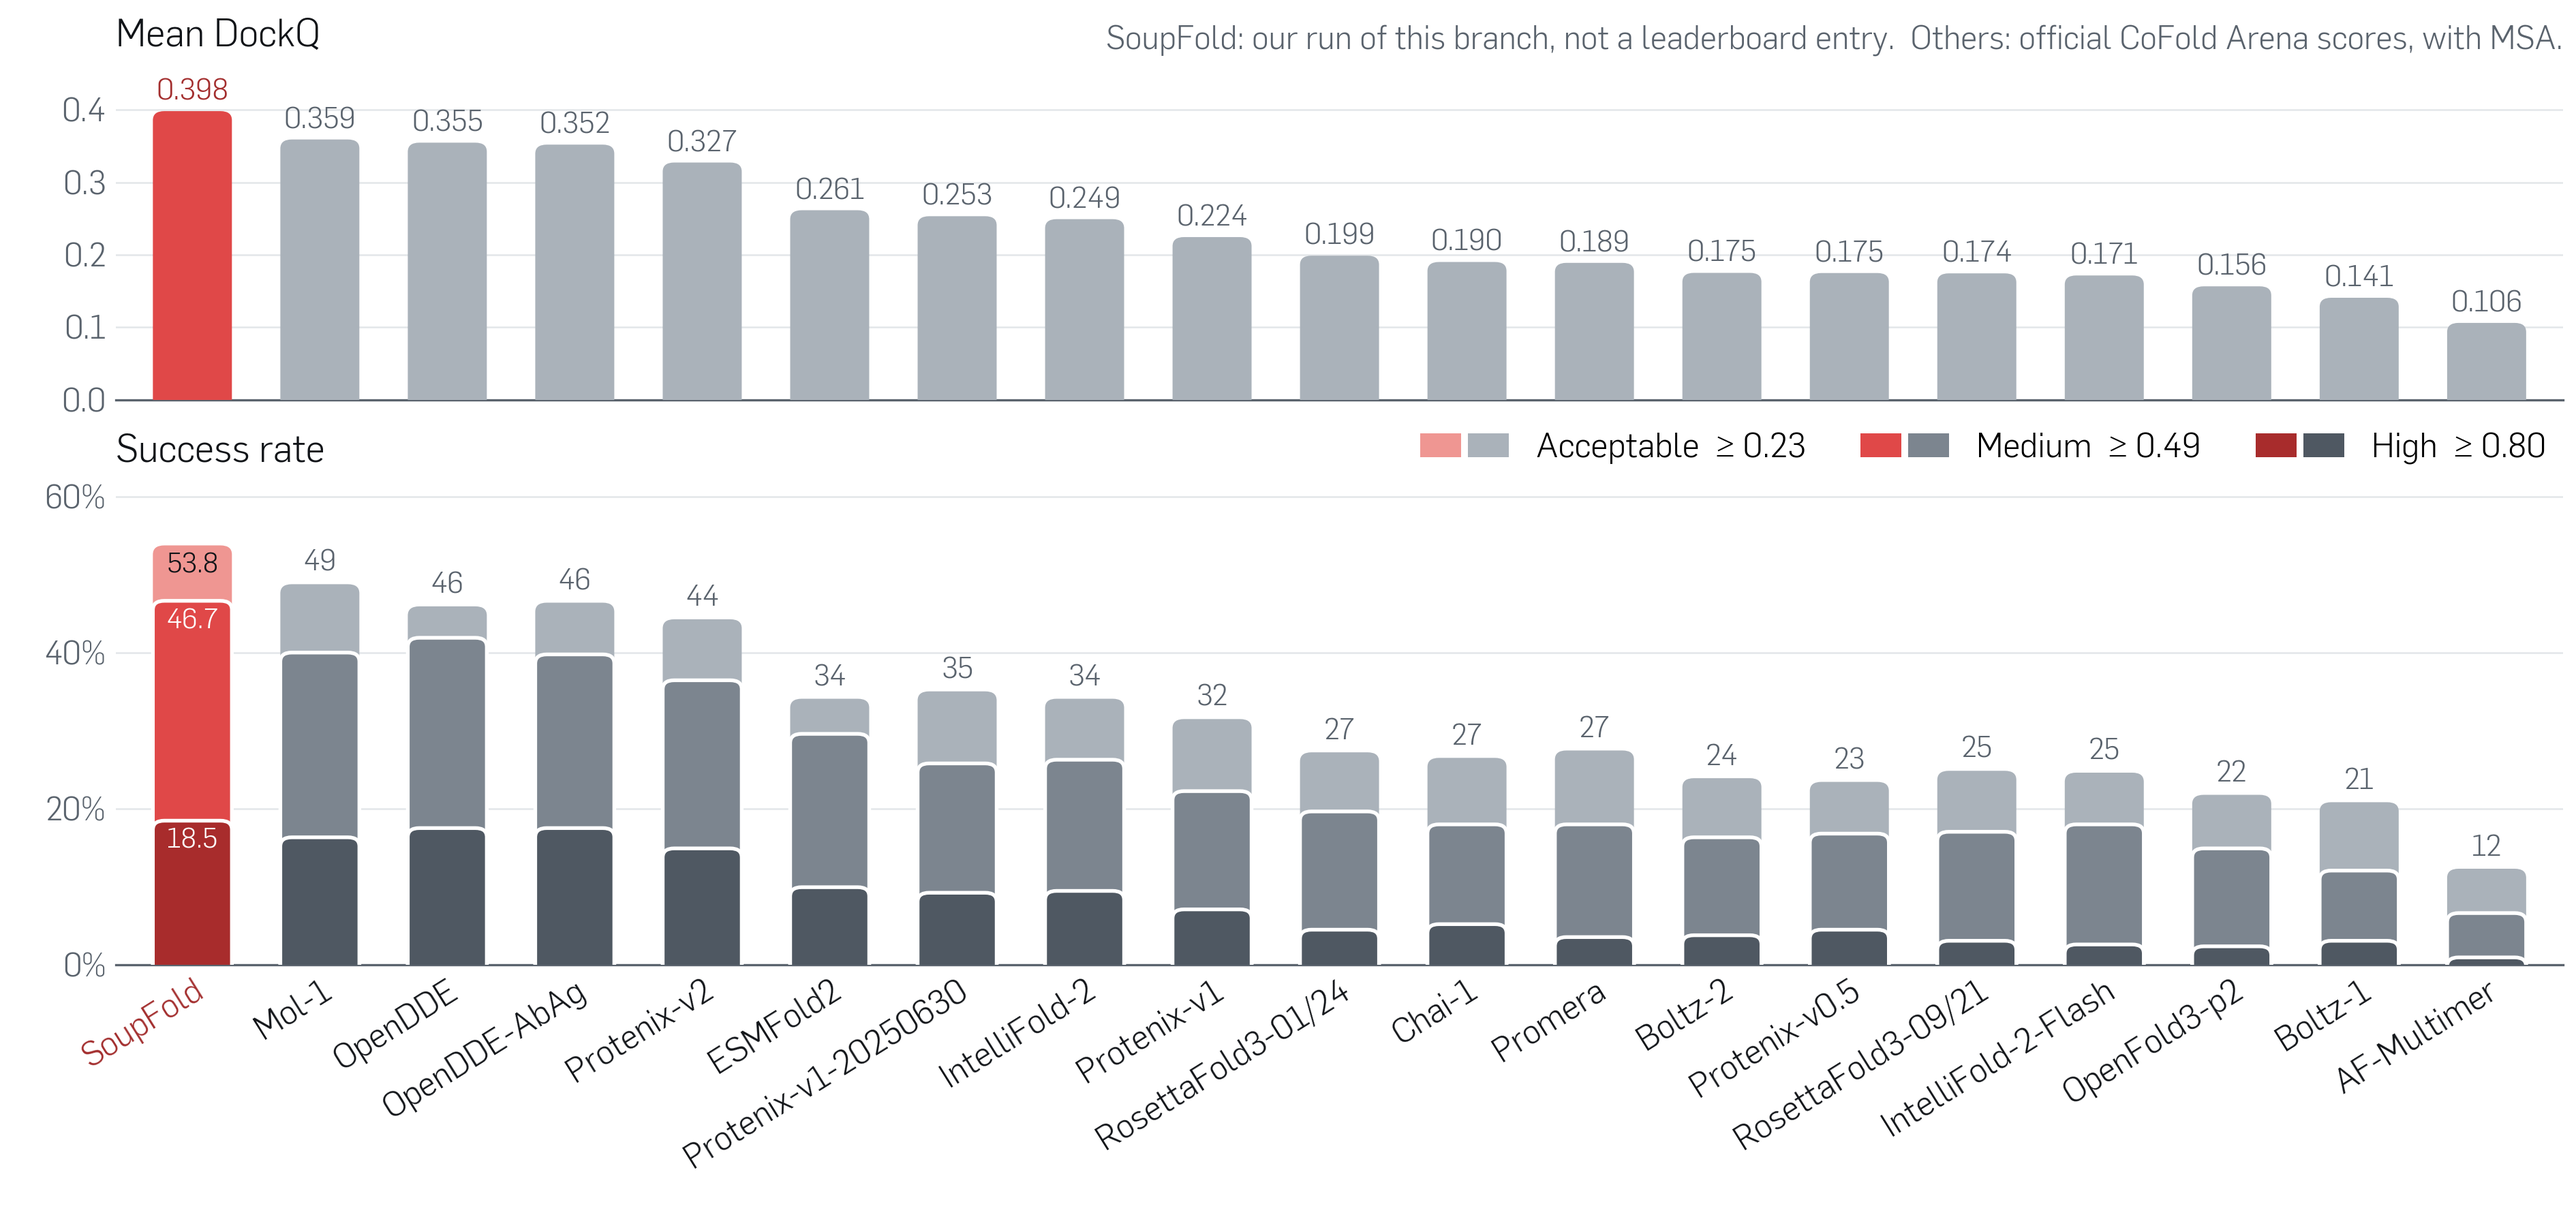
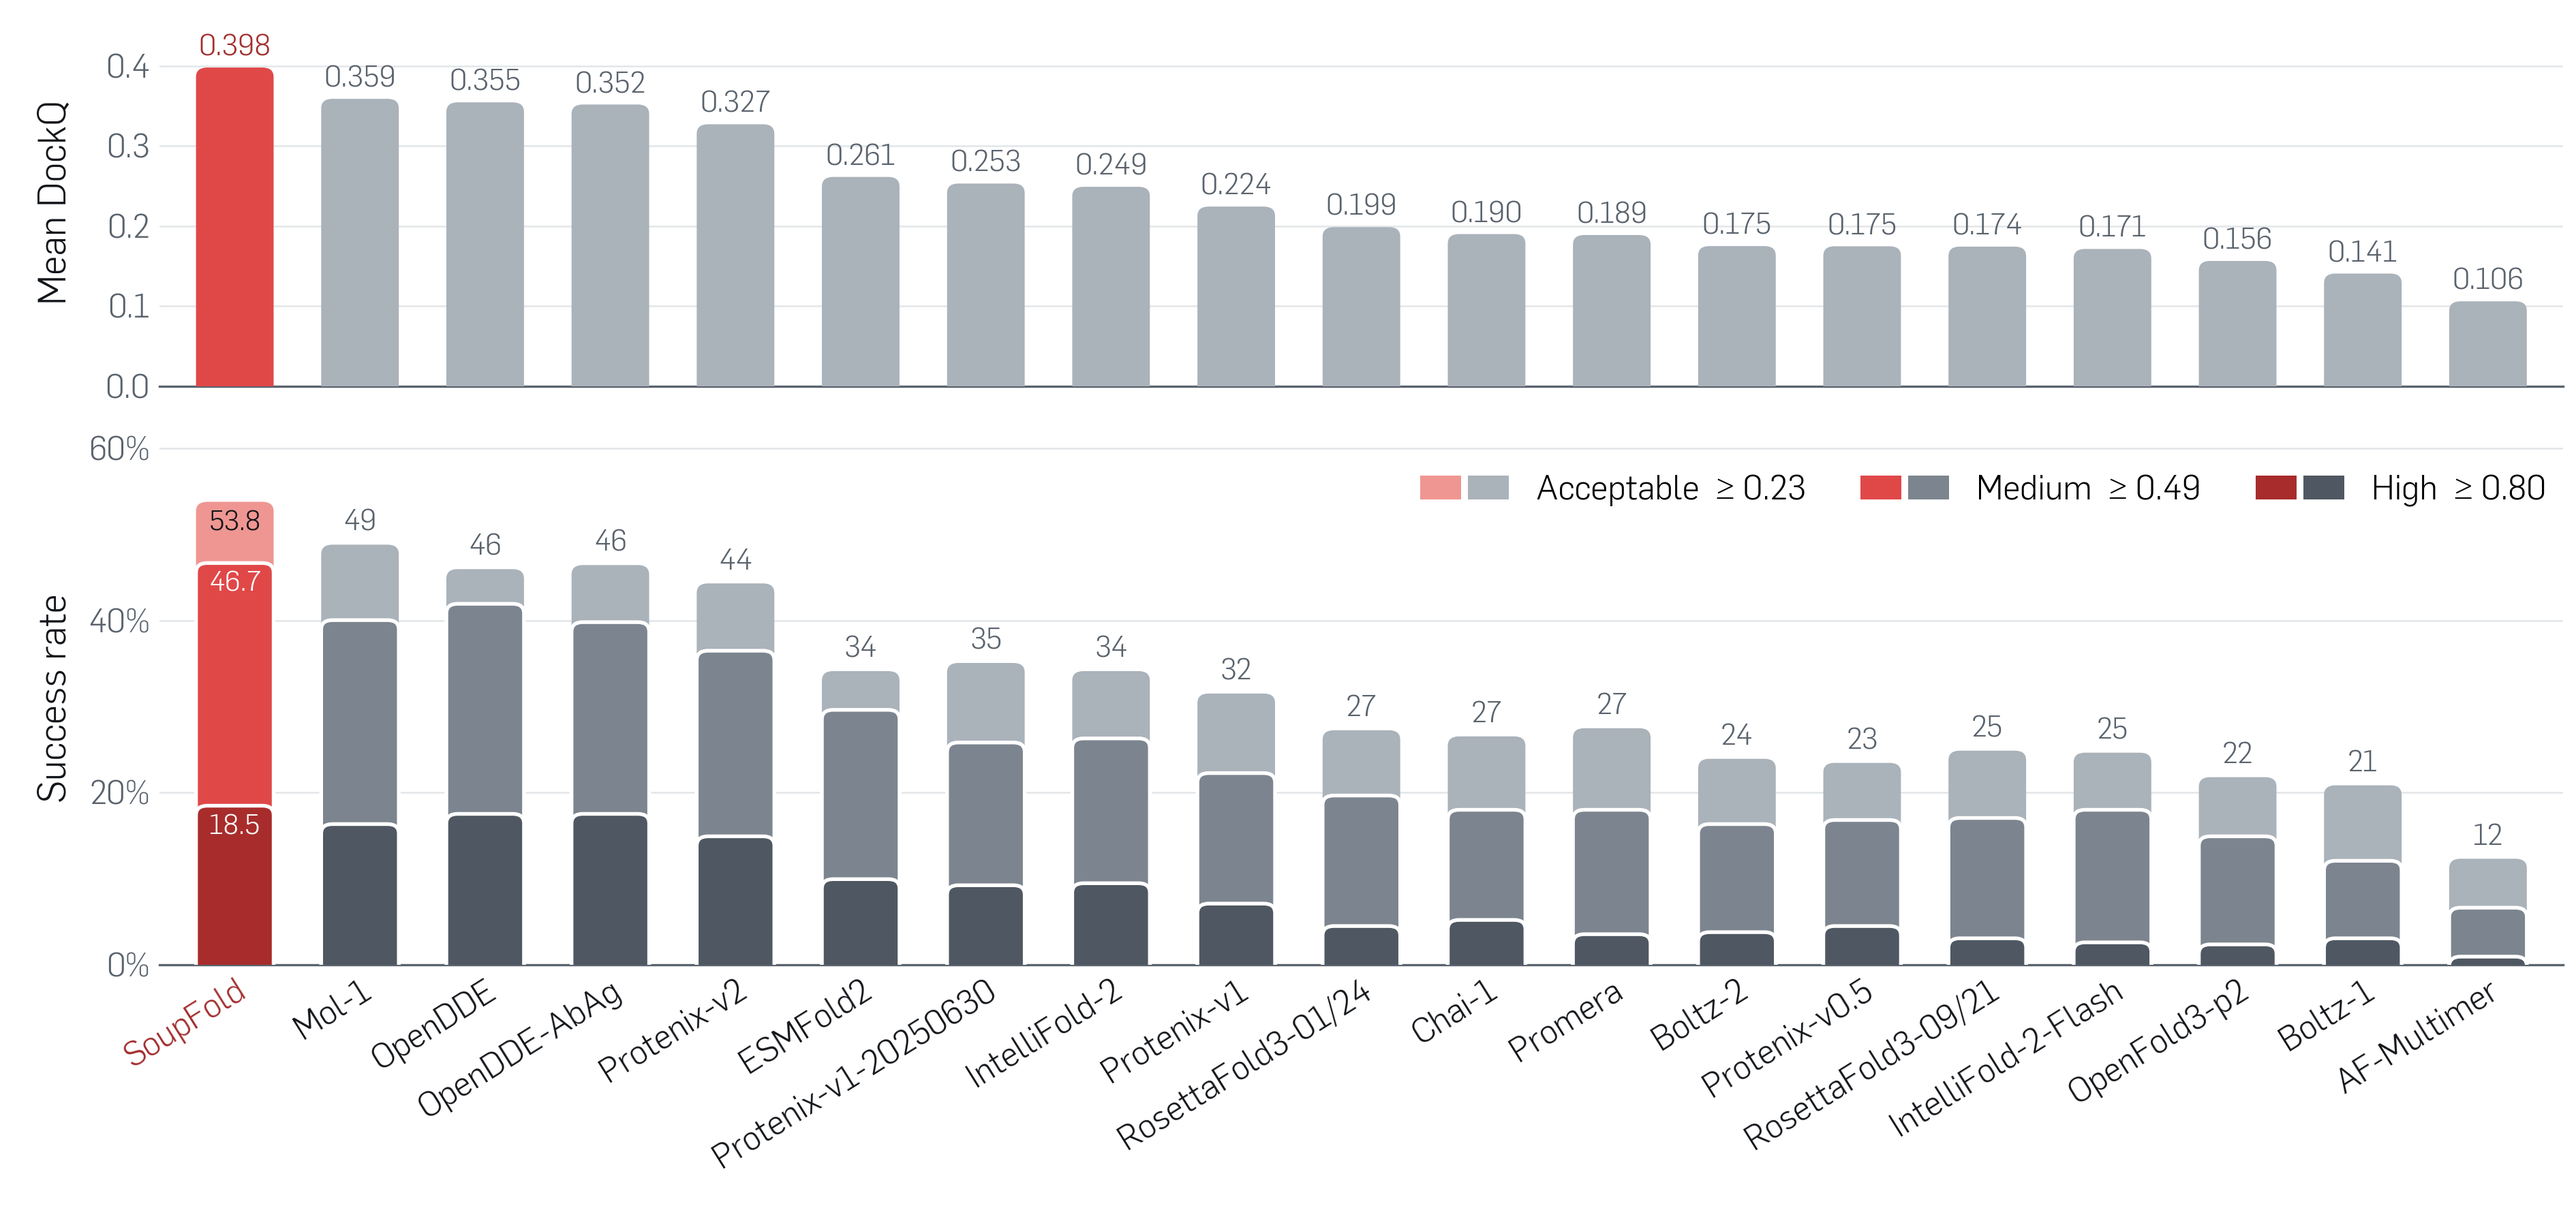
README: rename the plot section to Performance, move the plot titles to its axes

diff --git a/README.md b/README.md
@@ -27,7 +27,7 @@ ESMFold2 pairs by that taxonomy.
 | `--chunk-thresholds '{"1024":64,"2048":16}'` | OpenDDE trunk chunk sizes by token count; the default fits an 80 GB GPU, smaller chunks use less memory |
 | `--checkpoint`, `--protenix-root`, `--template-mmcif-dir` | use local files instead of the defaults |
 
-## CoFold Arena
+## Performance
 
 ![Mean DockQ and success rates on CoFold Arena, SoupFold and the leaderboard models](assets/cofold_arena.png)
 
